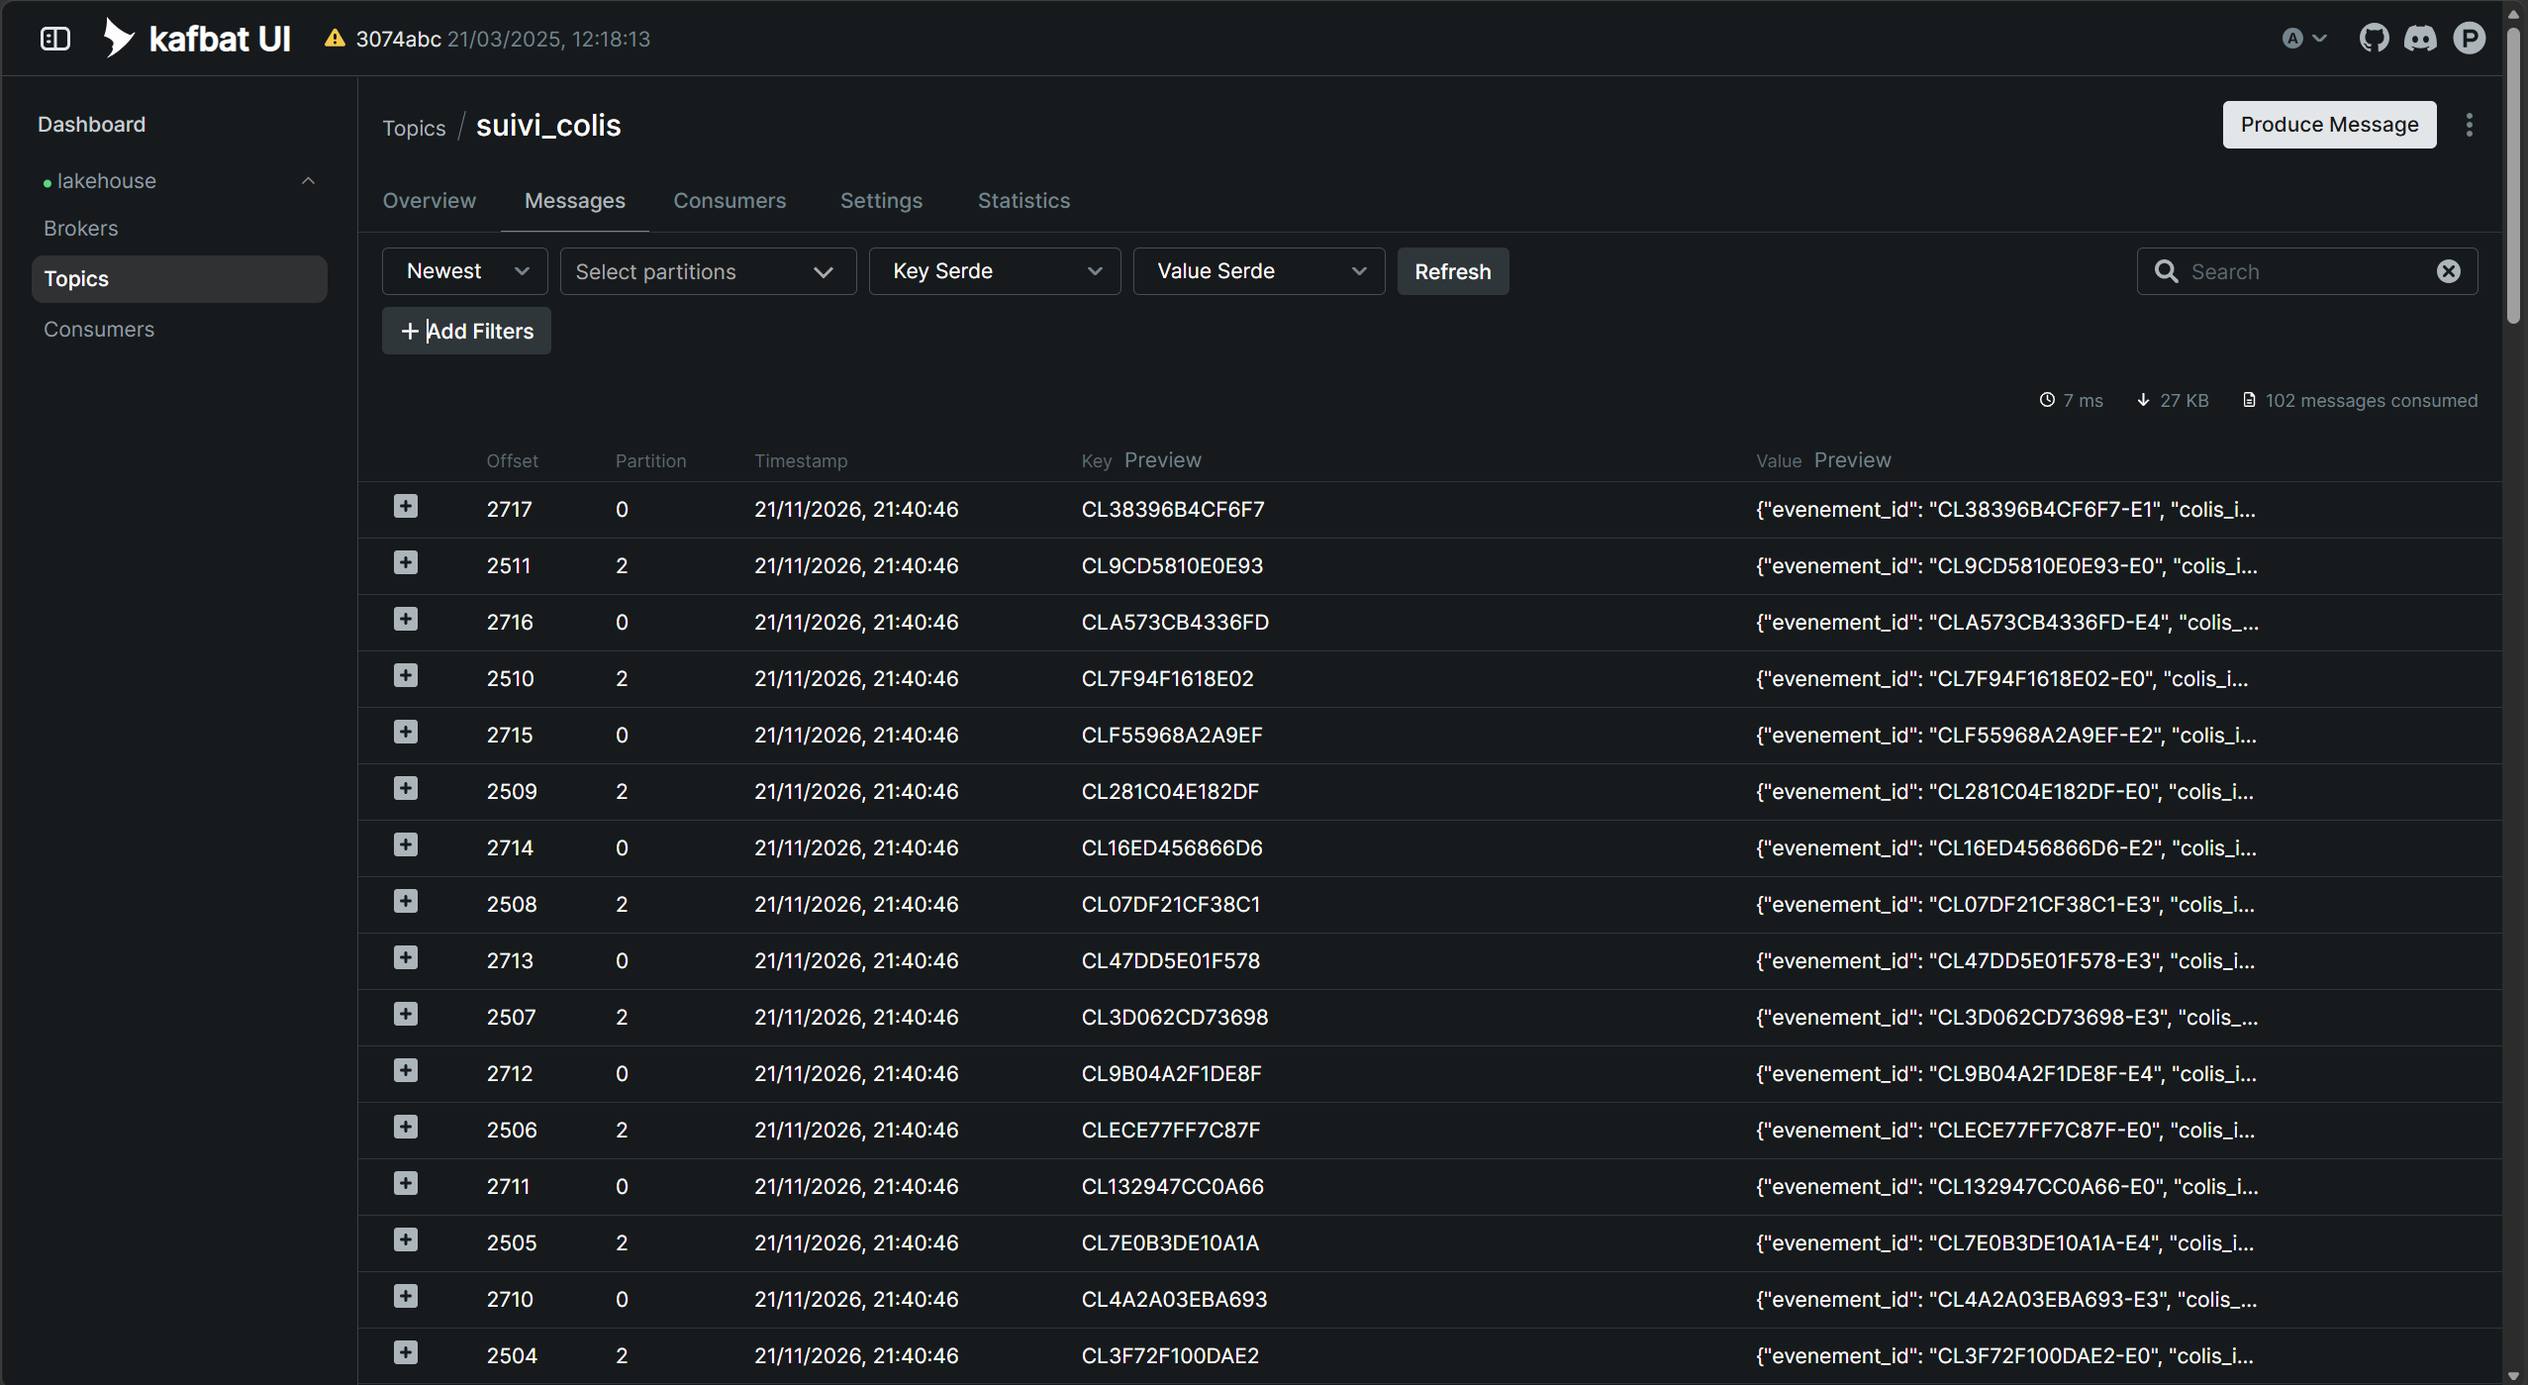
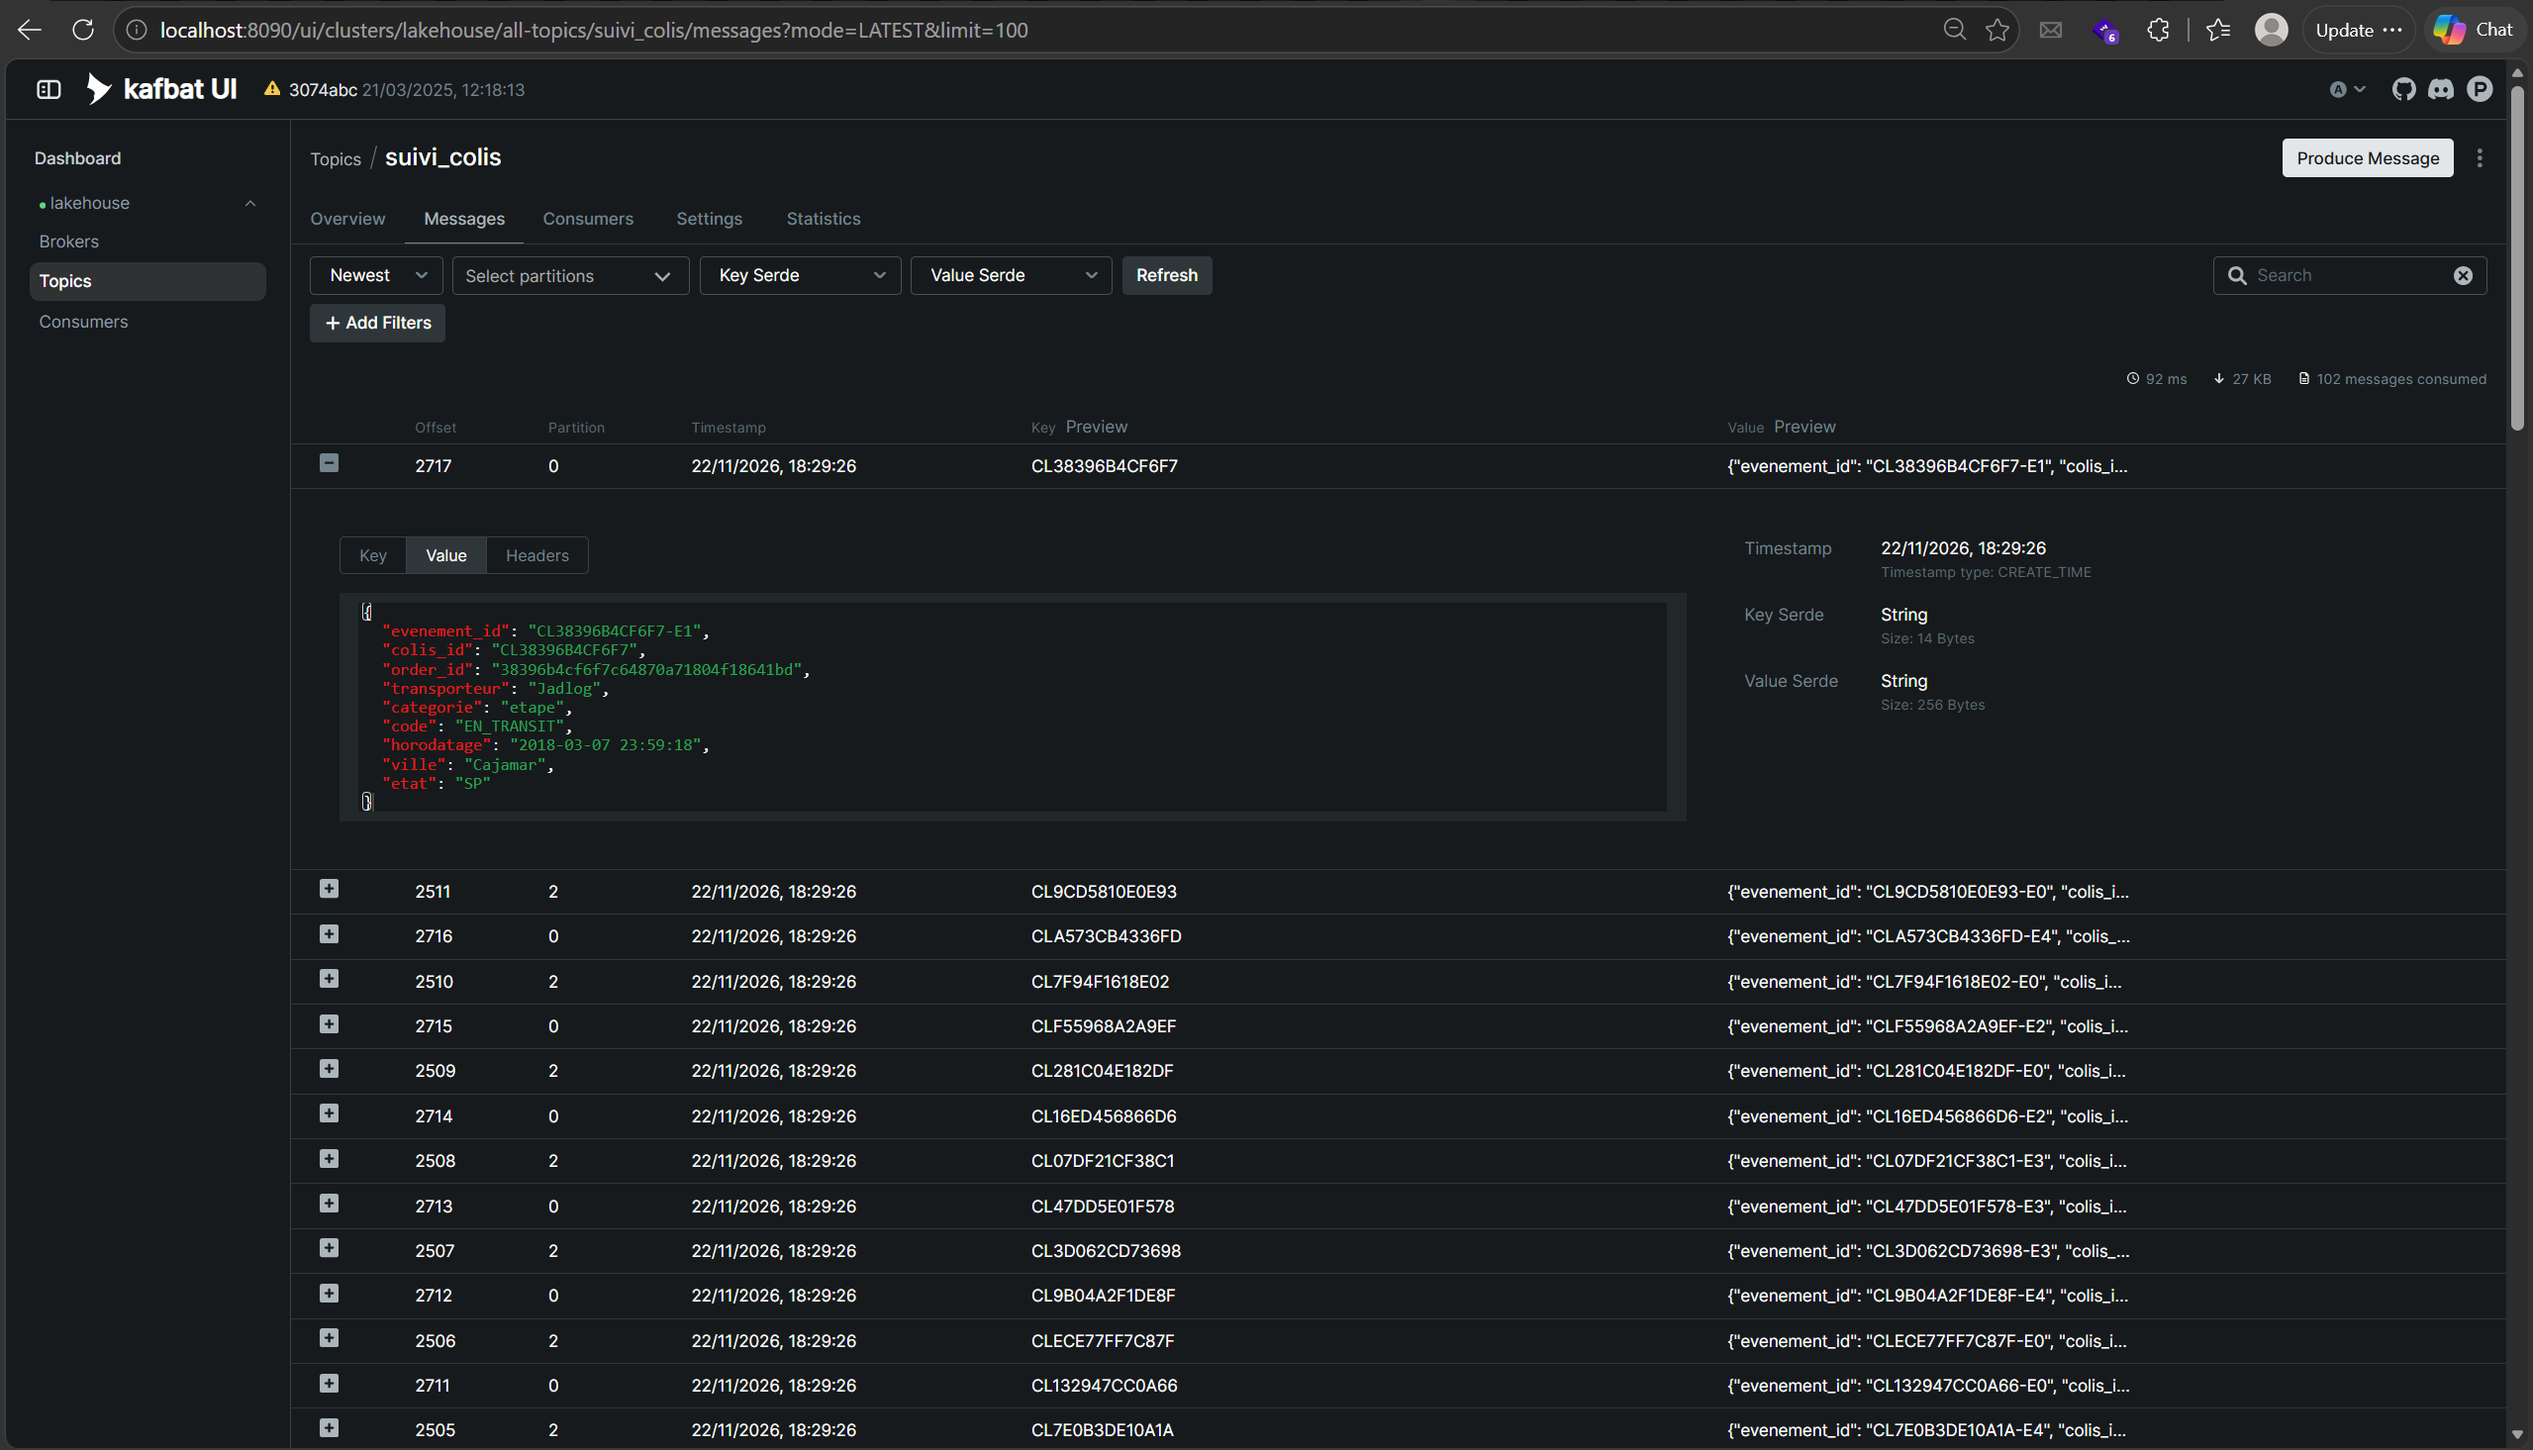
TP 4 : captures d'écran ajoutées ; légende du watermark alignée sur la capture
Claude-Session: https://claude.ai/code/session_01WwxwbA5xZfLuW9WnMBndct

diff --git a/docs/tp4_batch_streaming.tex b/docs/tp4_batch_streaming.tex
@@ -621,13 +621,13 @@ dont 6\,835 livrés.
 \begin{obtenir}
   \item Dans \nb{04\_temps\_fenetres}, exécutez les cellules 1 à 5.
   \item Exécutez la cellule 6, qui compare les incidents par jour calculés en flux, avec 12 heures d'attente, au calcul batch, puis la cellule 7, qui refait la comparaison avec 2 jours d'attente.
-  \item Capturez les sorties des cellules 6 et 7.
+  \item Capturez la cellule 6 et sa sortie.
 \end{obtenir}
-\capture{tp4_04_watermark}{Partie 4 : les incidents par jour, en flux avec 12 heures puis 2 jours d'attente, comparés au batch.}{fig:res04}
+\capture{tp4_04_watermark}{Partie 4 : les incidents par jour, en flux avec 12 heures d'attente, comparés au batch.}{fig:res04}
 \begin{lecture}
 Avec 12 heures d'attente, 30 journées sur 31 sont closes, et le flux compte 1\,075 incidents contre
 1\,084 pour le batch : 9 incidents (0,8~\%) sont arrivés après la clôture de leur journée, et ne sont
-pas comptés. Avec 2 jours d'attente, l'écart tombe à 0, mais seules 28 journées sont closes : le
+pas comptés. La cellule 7 refait le calcul avec 2 jours d'attente : l'écart tombe à 0, mais seules 28 journées sont closes : le
 chiffre de chaque journée arrive deux jours plus tard. Le watermark règle donc un compromis entre
 \textbf{fraîcheur} et \textbf{exactitude}, et sa durée se choisit d'après le retard réellement
 observé dans le flux.

diff --git a/docs/images/tp4/LISEZMOI.md b/docs/images/tp4/LISEZMOI.md
@@ -10,5 +10,6 @@ Les numéros de cellule sont les mêmes dans l'énoncé et dans le corrigé.
 | `tp4_02_messages.png` | Partie 2 : les messages du topic `suivi_colis` dans Kafka UI. | `02_kafka`, après la cellule 3 : Kafka UI (http://localhost:8090), *Topics* > `suivi_colis` > onglet *Messages*, tri *Newest* |
 | `tp4_02_consumers.png` | Partie 2 : les groupes de consommateurs et leur retard. | `02_kafka`, après la cellule 7 : Kafka UI, menu *Consumers* |
 | `tp4_03_panne.png` | Partie 3 : la panne, la reprise et la vérification de la table Bronze. | `03_bronze_streaming` : sorties des cellules 5 à 7 |
-| `tp4_04_watermark.png` | Partie 4 : les incidents par jour, en flux avec 12 h puis 2 jours d'attente, comparés au batch. | `04_temps_fenetres` : sorties des cellules 6 et 7 |
-| `tp4_05_bilan.png` | Partie 5 : le bilan des trois façons de calculer les incidents. | `05_batch_ou_streaming` : sortie de la cellule 9 |
+| `tp4_04_watermark.png` | Partie 4 : les incidents par jour, en flux avec 12 h d'attente, comparés au batch. | `04_temps_fenetres` : cellule 6 et sa sortie |
+| `tp4_05_airflow.png` | Partie 5 : les exécutions du DAG `suivi_incidents`. | Airflow (http://localhost:8085), DAG `suivi_incidents`, vue *Grid* et onglet *Runs*, après la cellule 8 |
+| `tp4_05_bilan.png` | Partie 5 : le bilan des façons de calculer les incidents. | `05_batch_ou_streaming` : cellule 12 et sa sortie |
